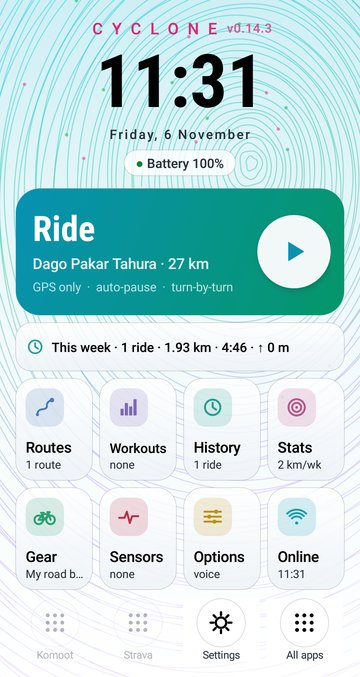
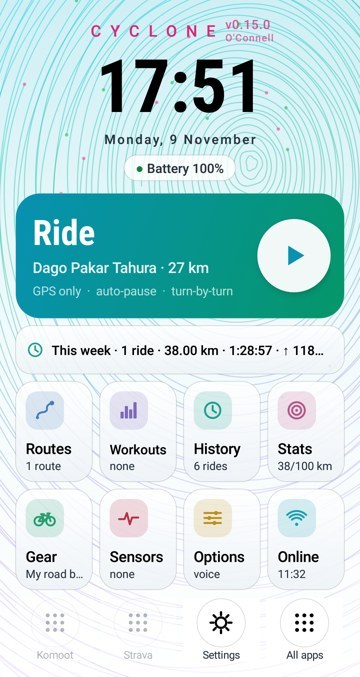
Screenshots for 0.15.0: Home with the codename, summary totals under Insights

diff --git a/TUTORIAL.md b/TUTORIAL.md
@@ -336,7 +336,7 @@ At the bottom, under **Send**:
 - **Upload**: sends the ride to Strava and/or Intervals.icu (only shown once one of them is connected).
 - **Done**: closes the summary.
 
-<img src="docs/img/summary.jpg" width="300" alt="Ride summary with distance, moving time, speeds, ascent, calories and elapsed time">
+<img src="docs/img/summary.jpg" width="300" alt="The totals under the Insights card: distance, moving time, average and top speed, ascent, calories, heart rate, power, TSS, cadence and elapsed time, then where the altitude came from">
 
 ### History
 
